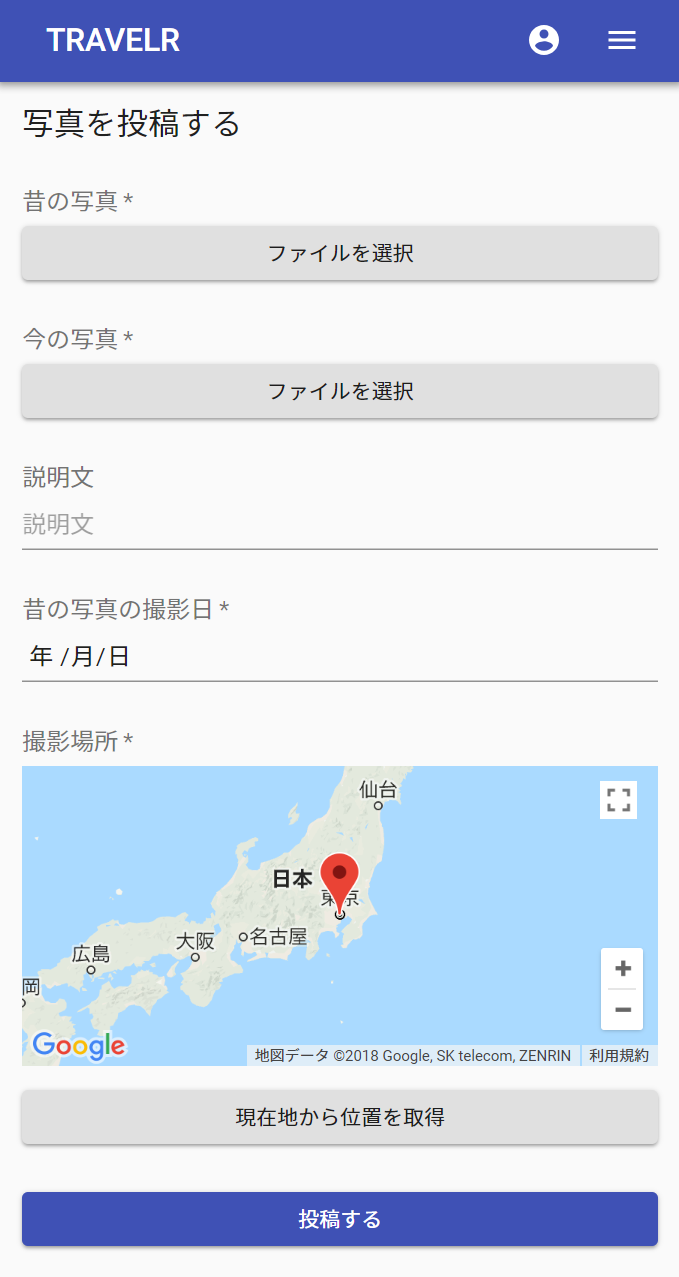
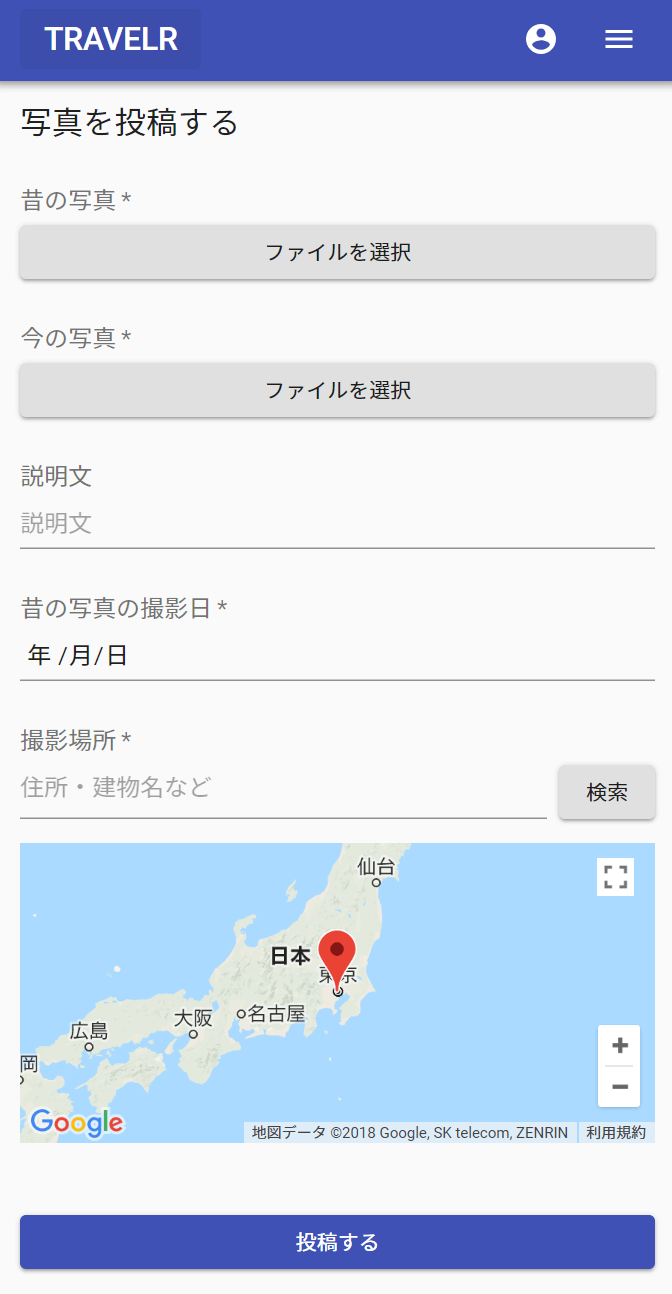
update the blog

diff --git a/_posts/blog/2018-07-31-デモシステムを作成しました.md b/_posts/blog/2018-07-31-デモシステムを作成しました.md
@@ -141,7 +141,7 @@ Firebase Auth を活用し、ひと通りの機能を実装しています。
 
 - 写真を投稿したり、投稿した写真の情報をあとから編集できます。
 - スマホであればカメラで撮影して投稿することもできます。
-- Google マップのピンをドラッグするか、地図上をタップすることで、撮影場所を設定できます。もしくは、現在地から位置情報を取得することも可能です。
+- 住所や建物名から検索することで、撮影位置を設定できます。ピンをドラッグすることで微調整もできます。
 
 ### 投稿の管理
 
